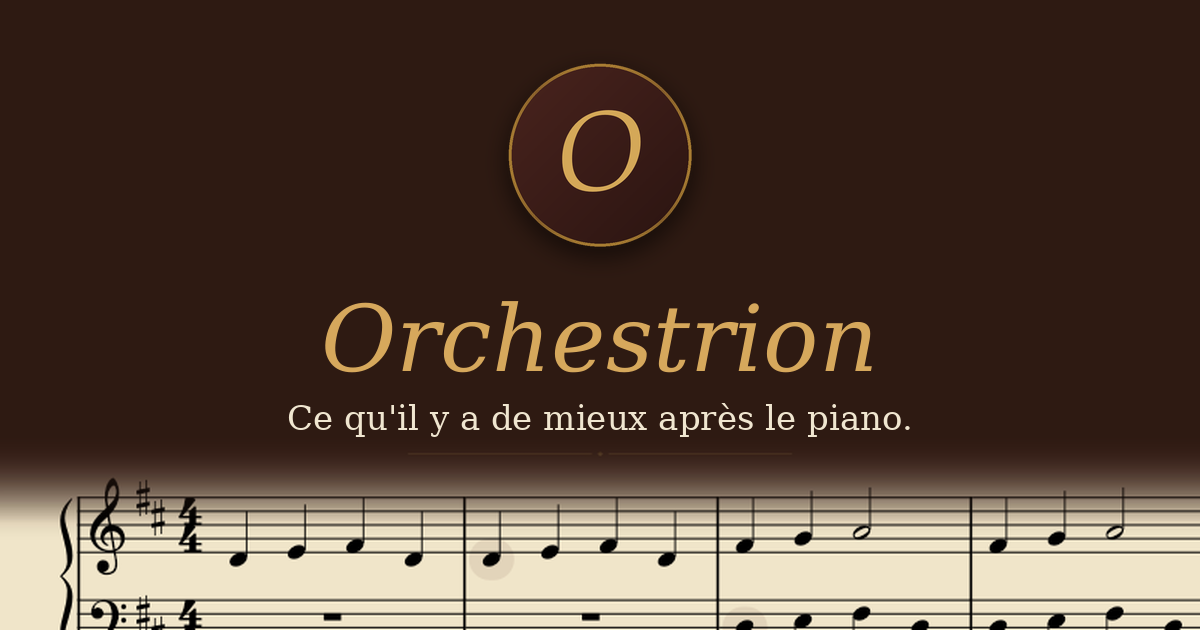
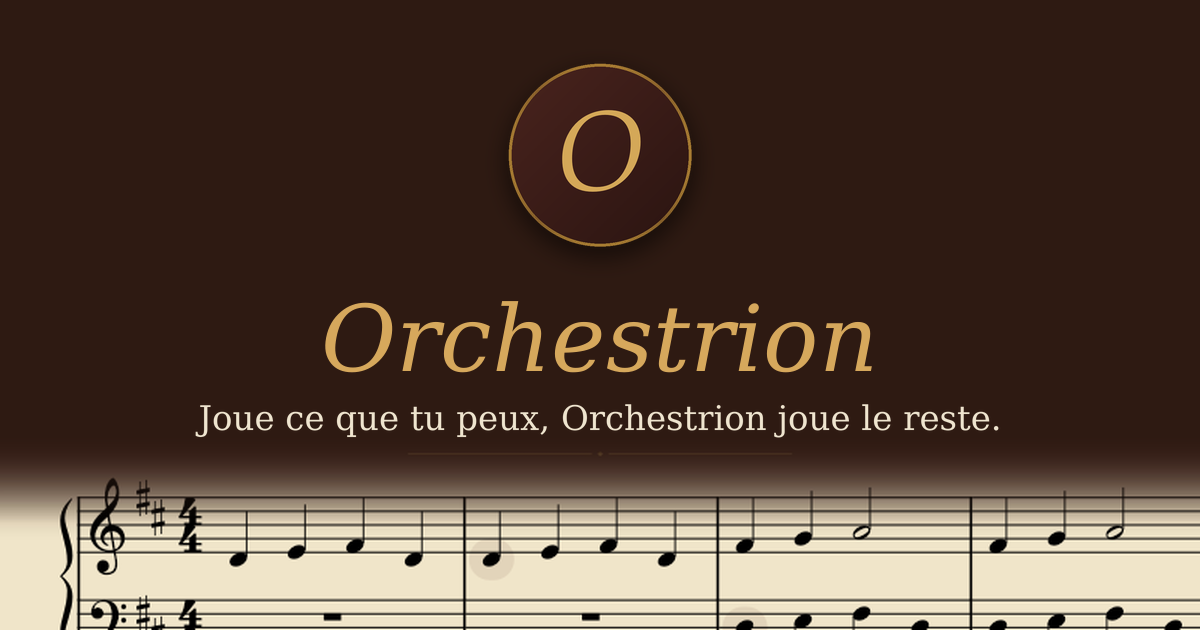
Website: play what you can, Orchestrion plays the rest
"Second only to playing the piano" no longer holds now that there is the
notes mode. The new wording says what the app is for, and French and German
now say tu and du. Credit MuseScore in the footer, and make the longer
headline and the extra footer line fit.

Changed region(s): [[0.1542, 0.6333, 0.8325, 0.6937]]

diff --git a/docs/de/index.html b/docs/de/index.html
@@ -12,8 +12,8 @@
     }
   </script>
   <meta name="viewport" content="width=device-width, initial-scale=1">
-  <title>Orchestrion — nur das Klavier selbst ist besser</title>
-  <meta name="description" content="Orchestrion ist eine kostenlose Open-Source-App, die jede Partitur in ein Instrument verwandelt: Tippen Sie den Rhythmus auf einem MIDI-Keyboard oder der Computertastatur, und sie spielt die Noten. Für Unterricht, Kinder, Musikliebhaber und Bands. Windows, macOS, Linux.">
+  <title>Orchestrion — Spiele was du kannst, Orchestrion spielt den Rest</title>
+  <meta name="description" content="Eine kostenlose Open-Source-App, die jede Partitur in ein Instrument verwandelt: Spiele was du kannst — nur den Rhythmus, nur die rechte Hand — und sie spielt den Rest.">
   <link rel="canonical" href="https://orchestrion.app/de/">
   <link rel="alternate" hreflang="en" href="https://orchestrion.app/">
   <link rel="alternate" hreflang="fr" href="https://orchestrion.app/fr/">
@@ -21,8 +21,8 @@
   <link rel="alternate" hreflang="x-default" href="https://orchestrion.app/">
   <link rel="icon" type="image/png" href="../assets/favicon.png">
   <meta name="theme-color" content="#2e1a12">
-  <meta property="og:title" content="Orchestrion — nur das Klavier selbst ist besser">
-  <meta property="og:description" content="Eine kostenlose Open-Source-App: Sie tippen den Rhythmus, die Partitur liefert die Tonhöhen. Kompatibel mit MuseScore- und MusicXML-Dateien.">
+  <meta property="og:title" content="Orchestrion — Spiele was du kannst, Orchestrion spielt den Rest">
+  <meta property="og:description" content="Eine kostenlose Open-Source-App: Spiele nur den Rhythmus oder nur die rechte Hand, und du hörst trotzdem das ganze Stück. Kompatibel mit MuseScore- und MusicXML-Dateien.">
   <meta property="og:type" content="website">
   <meta property="og:url" content="https://orchestrion.app/de/">
   <meta property="og:image" content="https://orchestrion.app/assets/og-image-de.png">
@@ -97,6 +97,8 @@
     }
     /* On narrow screens the deliberate break can't fit — let text flow. */
     @media (max-width: 44rem) { .hero p.sub br { display: none; } }
+    /* Breaks between these, not inside them, while they fit */
+    .hero .unit { display: inline-block; }
     /* Die Videos der Anleitungen. Das erste Bild der gewählten ist das
        Titelbild, mit einer Wiedergabetaste; ihre Liste ist eine Schublade
        links, eingeklappt zu einem Reiter am Rand des Rahmens (auf schmalen
@@ -321,7 +323,7 @@
       .hero .rolls p { margin-left: 0; max-width: none; }
       .hero h1 {
         margin-bottom: 0.5rem;
-        font-size: clamp(1.8rem, min(4.5vw, 5.5vh), 3rem);
+        font-size: clamp(1.8rem, min(4.5vw, 5.5vh), 2.25rem);
       }
       .hero p.sub { margin-bottom: 0; }
       /* The release note sits in the last of three rows; the first, empty
@@ -353,9 +355,13 @@
 
     /* Short wide screens: tighter text so the column fits the screenshot. */
     @media (min-width: 64rem) and (max-height: 62rem) {
-      .hero h1 { font-size: clamp(1.8rem, 5vh, 3rem); }
-      .hero p.sub { font-size: 1rem; line-height: 1.5; }
+      .hero h1 { font-size: clamp(1.8rem, 5vh, 2.25rem); }
+      /* No room left to keep the buttons centred. */
+      .hero .copy { grid-template-rows: auto auto 1fr auto; }
+      .hero p.sub { font-size: 1rem; line-height: 1.4; }
+      .rolls p { line-height: 1.4; }
       .hero footer.site { font-size: 0.8rem; line-height: 1.4; }
+      .hero footer.site .footer-langs { margin-top: 0.25rem; }
       .release-note { font-size: 0.82rem; }
     }
 
@@ -389,10 +395,11 @@
   <div class="wrap">
     <div class="copy">
       <div class="intro">
-        <h1>Nur das Klavier selbst ist besser.</h1>
+        <h1><span class="unit">Spiele was du kannst,</span> <span class="unit">Orchestrion spielt den Rest.</span></h1>
         <p class="sub">
-          Sie tippen den Rhythmus — auf einem MIDI-Keyboard oder der Computertastatur —<br>
-          Orchestrion spielt die Noten.
+          <span class="unit">Nur den Rhythmus? Nur die rechte Hand?</span>
+          <span class="unit">So oder so hörst du das ganze Stück.</span>
+          <span class="unit">Mit MIDI-Keyboard oder Computertastatur.</span>
         </p>
       </div>
 
@@ -429,8 +436,9 @@
           <a href="https://github.com/saintmatthieu/Orchestrion/blob/master/LICENSE">GPL-3.0-Lizenz</a> ·
           <a href="https://github.com/saintmatthieu/Orchestrion/issues">Problem melden</a>
         </p>
-        <p>Einige mitgelieferte Partituren sind Community-Notensätze — siehe
-           <a href="https://github.com/saintmatthieu/Orchestrion/blob/master/scores/attributions.json">Quellenangaben</a>.</p>
+        <p>Basiert auf der Notensatz- und Wiedergabe-Engine von <a href="https://musescore.org">MuseScore</a>.</p>
+        <p>Einige Notensätze stammen aus der Community — siehe
+           <a href="https://github.com/saintmatthieu/Orchestrion/blob/master/scores/attributions.json">Quellen</a>.</p>
         <p>© 2024–2026 Matthieu Hodgkinson</p>
         <p class="langs footer-langs">
           <a class="lang" href="../" hreflang="en" lang="en">EN</a>

diff --git a/docs/fr/index.html b/docs/fr/index.html
@@ -12,8 +12,8 @@
     }
   </script>
   <meta name="viewport" content="width=device-width, initial-scale=1">
-  <title>Orchestrion — ce qu'il y a de mieux après le piano</title>
-  <meta name="description" content="Orchestrion est une application libre et gratuite qui transforme toute partition en instrument : tapez le rythme sur un clavier MIDI ou d'ordinateur, elle joue les notes. Pour les cours, les enfants, les mélomanes et les groupes. Windows, macOS, Linux.">
+  <title>Orchestrion — Joue ce que tu peux, Orchestrion joue le reste</title>
+  <meta name="description" content="Une application libre et gratuite qui transforme toute partition en instrument : joue ce que tu peux — juste le rythme, juste la main droite — et elle joue le reste.">
   <link rel="canonical" href="https://orchestrion.app/fr/">
   <link rel="alternate" hreflang="en" href="https://orchestrion.app/">
   <link rel="alternate" hreflang="fr" href="https://orchestrion.app/fr/">
@@ -21,8 +21,8 @@
   <link rel="alternate" hreflang="x-default" href="https://orchestrion.app/">
   <link rel="icon" type="image/png" href="../assets/favicon.png">
   <meta name="theme-color" content="#2e1a12">
-  <meta property="og:title" content="Orchestrion — ce qu'il y a de mieux après le piano">
-  <meta property="og:description" content="Une application libre et gratuite : vous tapez le rythme, la partition fournit les notes. Compatible avec les fichiers MuseScore et MusicXML.">
+  <meta property="og:title" content="Orchestrion — Joue ce que tu peux, Orchestrion joue le reste">
+  <meta property="og:description" content="Une application libre et gratuite : joue juste le rythme ou juste la main droite, et tu entends quand même tout le morceau. Compatible avec les fichiers MuseScore et MusicXML.">
   <meta property="og:type" content="website">
   <meta property="og:url" content="https://orchestrion.app/fr/">
   <meta property="og:image" content="https://orchestrion.app/assets/og-image-fr.png">
@@ -97,6 +97,8 @@
     }
     /* On narrow screens the deliberate break can't fit — let text flow. */
     @media (max-width: 44rem) { .hero p.sub br { display: none; } }
+    /* Breaks between these, not inside them, while they fit */
+    .hero .unit { display: inline-block; }
     /* Les vidéos des tutoriels. La première image de celui qui est choisi sert
        de couverture, avec un bouton de lecture ; leur liste est un tiroir à
        gauche, réduit à un onglet sur le bord du cadre (sous le cadre, ouverte,
@@ -321,7 +323,7 @@
       .hero .rolls p { margin-left: 0; max-width: none; }
       .hero h1 {
         margin-bottom: 0.5rem;
-        font-size: clamp(1.8rem, min(4.5vw, 5.5vh), 3rem);
+        font-size: clamp(1.8rem, min(4.5vw, 5.5vh), 2.4rem);
       }
       .hero p.sub { margin-bottom: 0; }
       /* The release note sits in the last of three rows; the first, empty
@@ -353,9 +355,13 @@
 
     /* Short wide screens: tighter text so the column fits the screenshot. */
     @media (min-width: 64rem) and (max-height: 62rem) {
-      .hero h1 { font-size: clamp(1.8rem, 5vh, 3rem); }
-      .hero p.sub { font-size: 1rem; line-height: 1.5; }
+      .hero h1 { font-size: clamp(1.8rem, 5vh, 2.4rem); }
+      /* No room left to keep the buttons centred. */
+      .hero .copy { grid-template-rows: auto auto 1fr auto; }
+      .hero p.sub { font-size: 1rem; line-height: 1.4; }
+      .rolls p { line-height: 1.4; }
       .hero footer.site { font-size: 0.8rem; line-height: 1.4; }
+      .hero footer.site .footer-langs { margin-top: 0.25rem; }
       .release-note { font-size: 0.82rem; }
     }
 
@@ -389,10 +395,11 @@
   <div class="wrap">
     <div class="copy">
       <div class="intro">
-        <h1>Ce qu'il y a de mieux après le piano.</h1>
+        <h1><span class="unit">Joue ce que tu peux,</span> <span class="unit">Orchestrion joue le reste.</span></h1>
         <p class="sub">
-          Vous tapez le rythme — sur un clavier MIDI ou le clavier de l'ordinateur —<br>
-          Orchestrion joue les notes.
+          <span class="unit">Juste le rythme&nbsp;? Juste la main droite&nbsp;?</span>
+          <span class="unit">Dans les deux cas, tu entends tout le morceau.</span>
+          <span class="unit">Sur un clavier MIDI ou le clavier de l'ordinateur.</span>
         </p>
       </div>
 
@@ -429,7 +436,8 @@
           <a href="https://github.com/saintmatthieu/Orchestrion/blob/master/LICENSE">Licence GPL-3.0</a> ·
           <a href="https://github.com/saintmatthieu/Orchestrion/issues">Signaler un problème</a>
         </p>
-        <p>Certaines partitions incluses sont des gravures communautaires —
+        <p>Repose sur le moteur de gravure et de lecture de <a href="https://musescore.org">MuseScore</a>.</p>
+        <p>Certaines gravures sont communautaires —
            voir les <a href="https://github.com/saintmatthieu/Orchestrion/blob/master/scores/attributions.json">attributions</a>.</p>
         <p>© 2024–2026 Matthieu Hodgkinson</p>
         <p class="langs footer-langs">

diff --git a/docs/index.html b/docs/index.html
@@ -28,8 +28,8 @@
     }
   </script>
   <meta name="viewport" content="width=device-width, initial-scale=1">
-  <title>Orchestrion — second only to playing the piano</title>
-  <meta name="description" content="Orchestrion is a free, open-source app that turns any score into an instrument: tap the rhythm on a MIDI or computer keyboard and it plays the notes. For classrooms, kids, music lovers and bands. Windows, macOS, Linux.">
+  <title>Orchestrion — Play what you can, Orchestrion plays the rest</title>
+  <meta name="description" content="A free, open-source app that turns any score into an instrument: play what you can — just the rhythm, just the right hand — and it plays the rest.">
   <link rel="canonical" href="https://orchestrion.app/">
   <link rel="alternate" hreflang="en" href="https://orchestrion.app/">
   <link rel="alternate" hreflang="fr" href="https://orchestrion.app/fr/">
@@ -37,8 +37,8 @@
   <link rel="alternate" hreflang="x-default" href="https://orchestrion.app/">
   <link rel="icon" type="image/png" href="assets/favicon.png">
   <meta name="theme-color" content="#2e1a12">
-  <meta property="og:title" content="Orchestrion — second only to playing the piano">
-  <meta property="og:description" content="A free, open-source app: you tap the rhythm, the score supplies the pitches. Works with MuseScore and MusicXML files.">
+  <meta property="og:title" content="Orchestrion — Play what you can, Orchestrion plays the rest">
+  <meta property="og:description" content="A free, open-source app: play just the rhythm or just the right hand, and you still hear the whole piece. Works with MuseScore and MusicXML files.">
   <meta property="og:type" content="website">
   <meta property="og:url" content="https://orchestrion.app/">
   <meta property="og:image" content="https://orchestrion.app/assets/og-image.png">
@@ -113,6 +113,8 @@
     }
     /* On narrow screens the deliberate break can't fit — let text flow. */
     @media (max-width: 44rem) { .hero p.sub br { display: none; } }
+    /* Breaks between these, not inside them, while they fit */
+    .hero .unit { display: inline-block; }
     /* The tutorials' videos. The selected one's opening frame is the cover,
        with a play button; their list is a drawer on the left, collapsed to a
        tab on the frame's edge (under the frame on narrow screens, open). */
@@ -335,7 +337,7 @@
       .hero .rolls p { margin-left: 0; max-width: none; }
       .hero h1 {
         margin-bottom: 0.5rem;
-        font-size: clamp(1.8rem, min(4.5vw, 5.5vh), 3rem);
+        font-size: clamp(1.8rem, min(4.5vw, 5.5vh), 2.4rem);
       }
       .hero p.sub { margin-bottom: 0; }
       /* The release note sits in the last of three rows; the first, empty
@@ -367,9 +369,13 @@
 
     /* Short wide screens: tighter text so the column fits the screenshot. */
     @media (min-width: 64rem) and (max-height: 62rem) {
-      .hero h1 { font-size: clamp(1.8rem, 5vh, 3rem); }
-      .hero p.sub { font-size: 1rem; line-height: 1.5; }
+      .hero h1 { font-size: clamp(1.8rem, 5vh, 2.4rem); }
+      /* No room left to keep the buttons centred. */
+      .hero .copy { grid-template-rows: auto auto 1fr auto; }
+      .hero p.sub { font-size: 1rem; line-height: 1.4; }
+      .rolls p { line-height: 1.4; }
       .hero footer.site { font-size: 0.8rem; line-height: 1.4; }
+      .hero footer.site .footer-langs { margin-top: 0.25rem; }
       .release-note { font-size: 0.82rem; }
     }
 
@@ -403,10 +409,11 @@
   <div class="wrap">
     <div class="copy">
       <div class="intro">
-        <h1>Second only to playing the piano.</h1>
+        <h1><span class="unit">Play what you can,</span> <span class="unit">Orchestrion plays the rest.</span></h1>
         <p class="sub">
-          You tap the rhythm — on a MIDI keyboard or the computer keyboard —<br>
-          Orchestrion plays the notes.
+          <span class="unit">Just the rhythm? Just the right hand?</span>
+          <span class="unit">Either way, you hear the whole piece.</span>
+          <span class="unit">On a MIDI keyboard or the computer keyboard.</span>
         </p>
       </div>
 
@@ -443,6 +450,7 @@
           <a href="https://github.com/saintmatthieu/Orchestrion/blob/master/LICENSE">GPL-3.0 license</a> ·
           <a href="https://github.com/saintmatthieu/Orchestrion/issues">Report an issue</a>
         </p>
+        <p>Built on <a href="https://musescore.org">MuseScore</a>'s engraving and playback engine.</p>
         <p>Bundled scores include community engravings —
            see <a href="https://github.com/saintmatthieu/Orchestrion/blob/master/scores/attributions.json">attributions</a>.</p>
         <p>© 2024–2026 Matthieu Hodgkinson</p>

diff --git a/README.md b/README.md
@@ -2,14 +2,15 @@
   <img src="icons/orchestrion.png" width="120" alt="Orchestrion icon">
 </p>
 <h1 align="center">Orchestrion</h1>
-<p align="center"><em>Second only to playing the piano.</em></p>
+<p align="center"><em>Play what you can, Orchestrion plays the rest.</em></p>
 
 ![Orchestrion showing the score of Mozart's Rondo alla Turca](docs/assets/hero.png)
 
-Orchestrion turns any score into an instrument. You tap the rhythm — on a MIDI
-keyboard or the computer keyboard — and Orchestrion plays the notes of the piece,
-at your own pulse. Pitch accuracy is taken out of the equation; what remains is
-the music itself — a secure rhythm and real nuance still make all the difference.
+Orchestrion turns any score into an instrument. Play what you can — just the
+rhythm, just the right hand — on a MIDI keyboard or the computer keyboard, and
+Orchestrion plays the rest, at your own pulse. Tap only the rhythm and pitch
+accuracy is taken out of the equation; what remains is the music itself — a secure
+rhythm and real nuance still make all the difference.
 
 One idea, many ways to play it: rhythm-focused practice in the music lesson, kids
 getting familiar with notation while having fun, music lovers discovering
